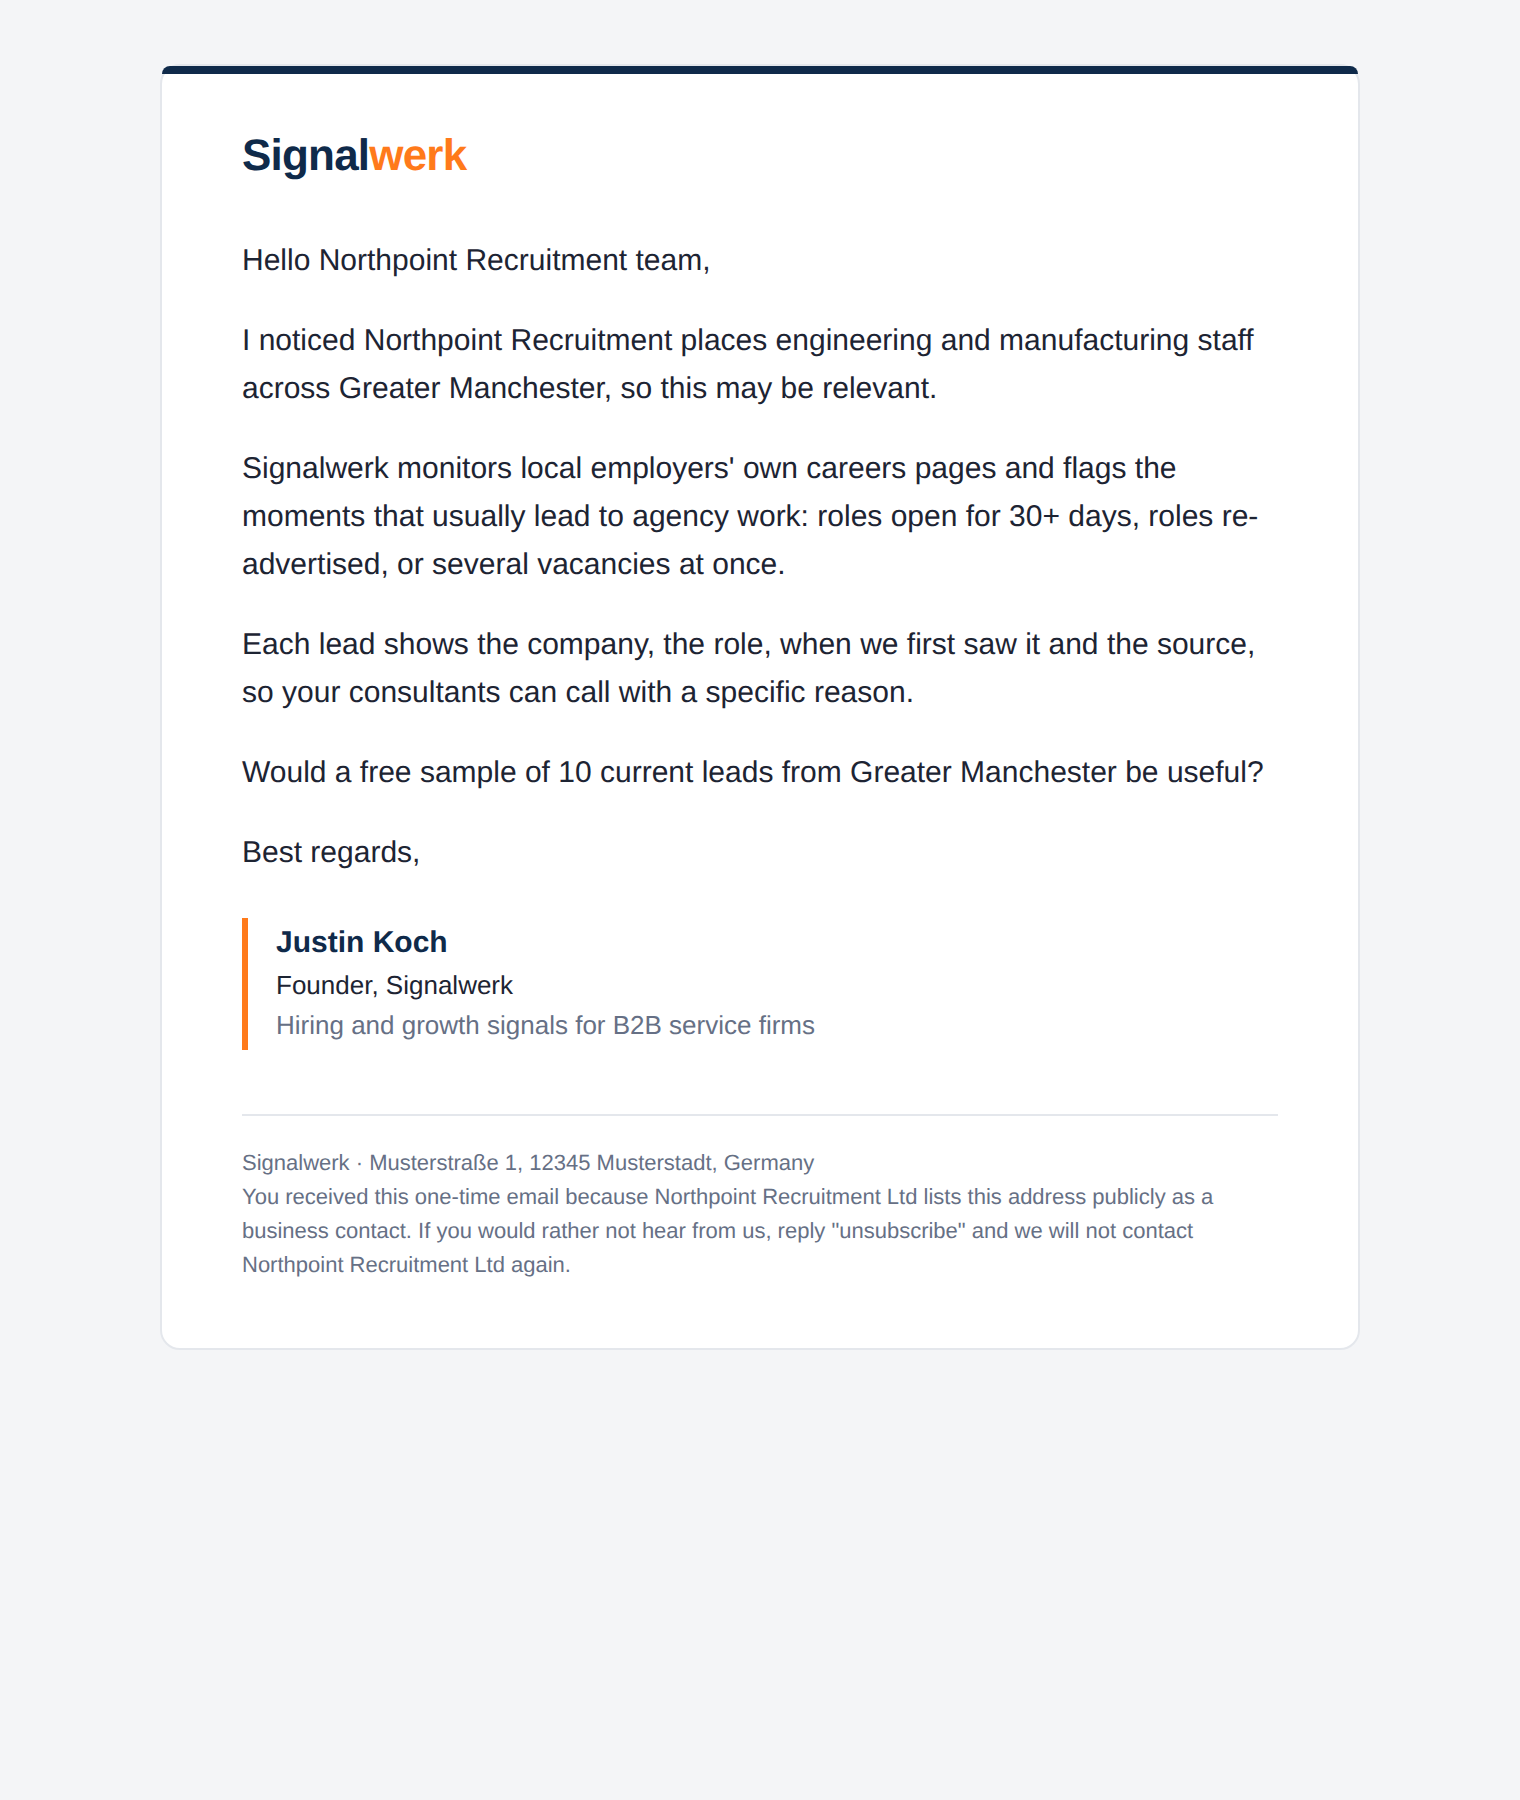
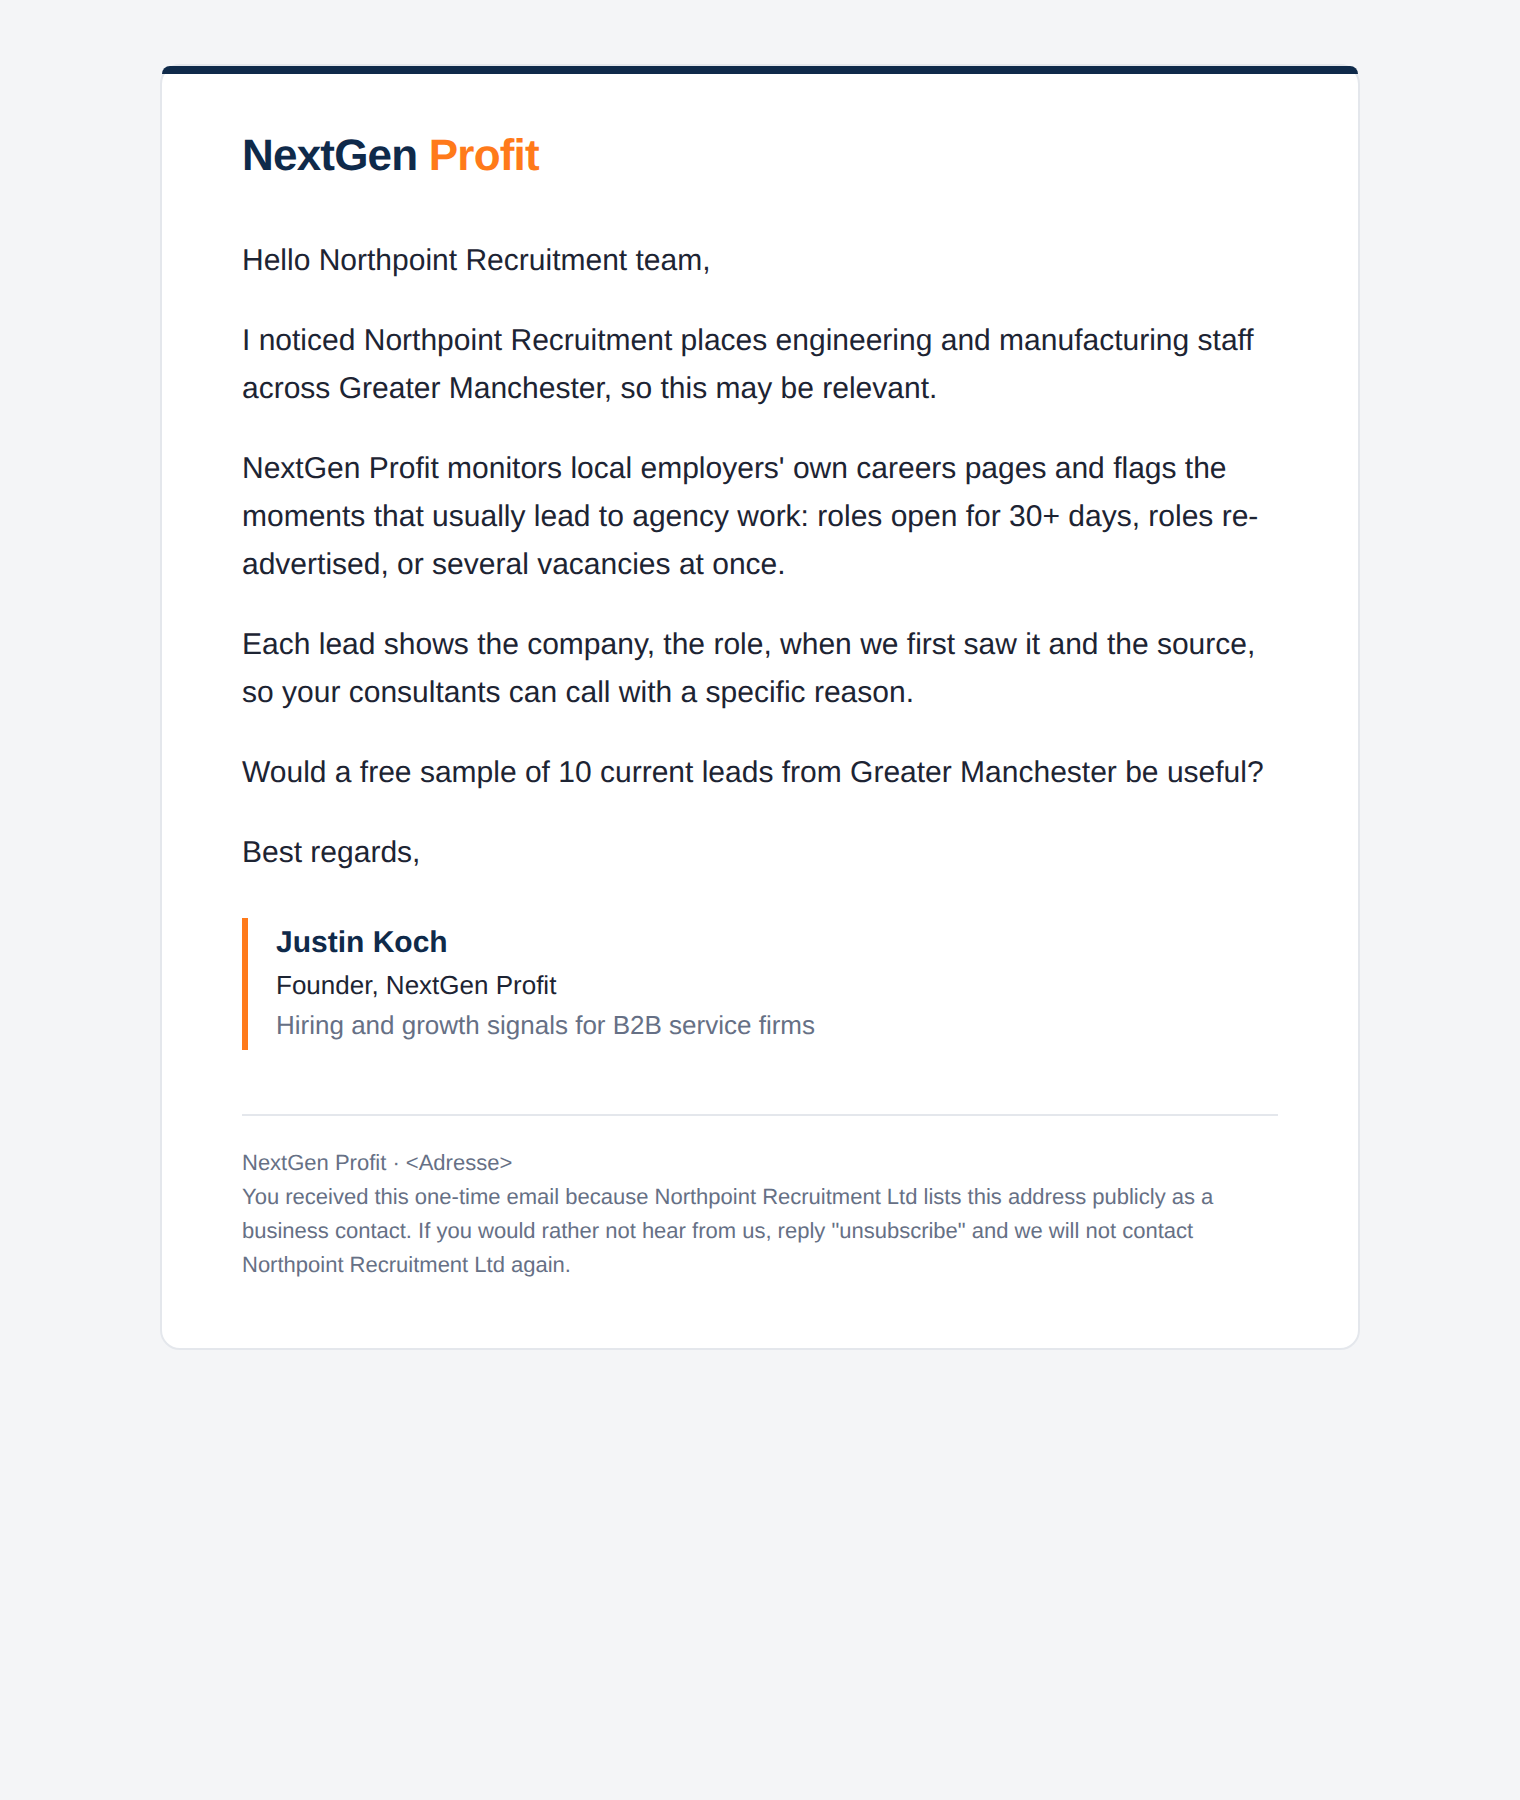
Marke in Mails: NextGen Profit statt Signalwerk (über SENDER_COMPANY einstellbar)
Claude-Session: https://claude.ai/code/session_019ZNwjDtMpr12vyRvgpDRcA

diff --git a/scripts/drafts.py b/scripts/drafts.py
@@ -18,7 +18,7 @@ from pathlib import Path
 
 sys.path.insert(0, str(Path(__file__).resolve().parent))
 
-from lib.rules import lint_draft  # noqa: E402
+from lib.rules import brand, lint_draft  # noqa: E402
 
 GENERIC_SPEC = {"recruitment", "general recruitment", "financial advice", "independent financial advice",
                 "web design", "small business websites", "unverified", "", "it support", "commercial insurance",
@@ -41,8 +41,8 @@ def _clean_name(name: str) -> str:
 
 def signature(lang: str) -> str:
     """Signatur aus Umgebungsvariablen (GitHub-Secrets/Variablen). Nur Angaben, die es wirklich gibt."""
-    name = os.environ.get("SENDER_NAME") or "Signalwerk"
-    company = os.environ.get("SENDER_COMPANY") or "Signalwerk"
+    name = os.environ.get("SENDER_NAME") or brand()
+    company = brand()
     title = os.environ.get("SENDER_TITLE") or ("Fondateur" if lang == "fr" else "Founder")
     tagline = ("Signaux de recrutement et de croissance pour les prestataires B2B" if lang == "fr"
                else "Hiring and growth signals for B2B service firms")
@@ -76,7 +76,7 @@ def build(p: dict, sender: str | None = None, example: dict | None = None) -> tu
         subject = f"Hiring signals from {area} employers"
         first = (f"I noticed {firm} places {spec} staff across {area}, so this may be relevant."
                  if has_spec else f"I noticed {firm} recruits for employers across {area}, so this may be relevant.")
-        core = ("Signalwerk monitors local employers' own careers pages and flags the moments that usually lead "
+        core = (f"{brand()} monitors local employers' own careers pages and flags the moments that usually lead "
                 "to agency work: roles open for 30+ days, roles re-advertised, or several vacancies at once.")
         detail = ("Each lead shows the company, the role, when we first saw it and the source, "
                   "so your consultants can call with a specific reason.")
@@ -85,7 +85,7 @@ def build(p: dict, sender: str | None = None, example: dict | None = None) -> tu
         subject = f"Newly registered businesses in {area}"
         first = (f"I noticed {firm} builds {spec} for clients around {area}, so this may be relevant."
                  if has_spec else f"I noticed {firm} builds websites for businesses around {area}, so this may be relevant.")
-        core = ("Signalwerk tracks official state filings and flags companies registered in the last few weeks. "
+        core = (f"{brand()} tracks official state filings and flags companies registered in the last few weeks. "
                 "New owners are usually choosing their website, branding and online presence right now.")
         detail = ex or "Each lead shows the company, the registration date, the county and the official source."
         ask = f"Would a free sample of 10 recent registrations from {area} be useful?"
@@ -93,7 +93,7 @@ def build(p: dict, sender: str | None = None, example: dict | None = None) -> tu
         subject = f"New and growing companies in {area}"
         first = (f"I noticed {firm} focuses on {spec} for clients around {area}, so this may be relevant."
                  if has_spec else f"I noticed {firm} advises business owners around {area}, so this may be relevant.")
-        core = ("Signalwerk flags local companies at the moments when owners look for advice: a new registration, "
+        core = (f"{brand()} flags local companies at the moments when owners look for advice: a new registration, "
                 "a hiring push or a new site. That is when pensions, protection and benefits come up.")
         detail = ex or "Each lead shows the company, the event, the date and the official source."
         ask = f"Would a free sample of 10 current leads from {area} be useful?"
@@ -101,7 +101,7 @@ def build(p: dict, sender: str | None = None, example: dict | None = None) -> tu
         subject = f"Growing businesses around {area}"
         first = (f"I noticed {firm} provides {spec} to businesses around {area}, so this may be relevant."
                  if has_spec else f"I noticed {firm} looks after IT for businesses around {area}, so this may be relevant.")
-        core = ("Signalwerk flags local companies at the moments when IT needs change: a new office, a hiring push "
+        core = (f"{brand()} flags local companies at the moments when IT needs change: a new office, a hiring push "
                 "or an open IT support role that has not been filled. Those are good reasons for an MSP to call.")
         detail = ex or "Each lead shows the company, what happened, when we saw it and the source."
         ask = f"Would a free sample of 10 current leads from {area} be useful?"
@@ -109,7 +109,7 @@ def build(p: dict, sender: str | None = None, example: dict | None = None) -> tu
         subject = f"New and expanding businesses in {area}"
         first = (f"I noticed {firm} arranges {spec} for businesses around {area}, so this may be relevant."
                  if has_spec else f"I noticed {firm} arranges business insurance around {area}, so this may be relevant.")
-        core = ("Signalwerk tracks official company registrations and local expansion signals. A newly registered "
+        core = (f"{brand()} tracks official company registrations and local expansion signals. A newly registered "
                 "company usually needs liability, property and employer cover in its first weeks.")
         detail = ex or "Each lead shows the company, the registration date, the location and the official source."
         ask = f"Would a free sample of 10 recent leads from {area} be useful?"
@@ -117,7 +117,7 @@ def build(p: dict, sender: str | None = None, example: dict | None = None) -> tu
         subject = f"Newly registered companies in {area}"
         first = (f"I noticed {firm} offers {spec} to businesses around {area}, so this may be relevant."
                  if has_spec else f"I noticed {firm} works with small businesses around {area}, so this may be relevant.")
-        core = ("Signalwerk tracks official company registrations and employers hiring for finance roles. New "
+        core = (f"{brand()} tracks official company registrations and employers hiring for finance roles. New "
                 "directors are usually choosing an accountant and payroll provider in their first weeks.")
         detail = ex or "Each lead shows the company, the registration date, the location and the official source."
         ask = f"Would a free sample of 10 recent leads from {area} be useful?"
@@ -125,21 +125,21 @@ def build(p: dict, sender: str | None = None, example: dict | None = None) -> tu
         subject = f"Signaux de recrutement à {area}"
         first = (f"J'ai vu que {firm} recrute des profils {spec} dans la région de {area}." if has_spec
                  else f"J'ai vu que {firm} accompagne les entreprises de la région de {area} dans leurs recrutements.")
-        core = ("Signalwerk suit les pages carrières des employeurs locaux et repère les moments qui mènent souvent "
+        core = (f"{brand()} suit les pages carrières des employeurs locaux et repère les moments qui mènent souvent "
                 "à un mandat : postes ouverts depuis plus de 30 jours, annonces republiées ou plusieurs postes à la fois.")
         detail = "Chaque piste indique l'entreprise, le poste, la date et la source."
         ask = f"Un échantillon gratuit de 10 pistes actuelles à {area} vous serait-il utile ?"
     elif seg == "S2":
         subject = f"Sociétés nouvellement créées à {area}"
         first = f"J'ai vu que {firm} conçoit des sites web pour les entreprises de la région de {area}."
-        core = ("Signalwerk suit les annonces officielles de création au BODACC. Une société qui vient d'être "
+        core = (f"{brand()} suit les annonces officielles de création au BODACC. Une société qui vient d'être "
                 "immatriculée choisit en ce moment son site, son identité visuelle et sa présence en ligne.")
         detail = ex or "Chaque piste indique la société, la date de l'annonce, la ville et la source officielle."
         ask = f"Un échantillon gratuit de 10 créations récentes à {area} vous serait-il utile ?"
     else:  # S9 FR
         subject = f"Nouveaux dirigeants à {area}"
         first = f"J'ai vu que {firm} accompagne les chefs d'entreprise de la région de {area}."
-        core = ("Signalwerk repère les entreprises locales au moment où leurs dirigeants cherchent conseil : création "
+        core = (f"{brand()} repère les entreprises locales au moment où leurs dirigeants cherchent conseil : création "
                 "récente, vague de recrutements ou nouveau site. C'est là que se posent les questions de protection "
                 "et d'épargne salariale.")
         detail = ex or "Chaque piste indique la société, l'événement, la date et la source officielle."

diff --git a/scripts/responder.py b/scripts/responder.py
@@ -36,7 +36,7 @@ import requests
 
 sys.path.insert(0, str(Path(__file__).resolve().parent))
 
-from lib.rules import normalize_domain  # noqa: E402
+from lib.rules import brand, normalize_domain  # noqa: E402
 
 ROOT = Path(__file__).resolve().parents[1]
 INTENTS = ["buy", "sample", "question", "not_interested", "unsubscribe", "out_of_office", "other"]
@@ -178,7 +178,7 @@ def send_reply(to: str, subject: str, text: str, in_reply_to: str | None, lang: 
                attachments: list[tuple[str, bytes]] | None = None) -> str | None:
     from lib.html_email import render
     from lib.rules import render_footer
-    company = os.environ.get("SENDER_COMPANY") or "Signalwerk"
+    company = brand()
     footer = render_footer(lang, sender_name=company, postal_address=os.environ.get("SENDER_POSTAL_ADDRESS", ""),
                            company=normalize_domain(to.split("@")[-1]), unsubscribe_url=None)
     full = text.rstrip() + "\n\n" + footer
@@ -293,7 +293,7 @@ def main(argv=None) -> int:
                     db.insert("email_events", {"message_id": m["id"], "type": "sample_requested",
                                                "note": "Probe automatisch gesendet"})
             if action == "sample_owner" or not body:
-                notify_owner(f"[Signalwerk] Bitte ansehen: {p['company_name']}",
+                notify_owner(f"[Leads] Bitte ansehen: {p['company_name']}",
                              f"{p['company_name']} ({p['segment_id']}/{p['country']}) hat geantwortet.\n\n"
                              f"Einordnung: {c['summary_de']}\nProbe gesendet: {'ja' if body else 'nein (keine Datei)'}\n\n"
                              f"Antwort von {sender}:\n\n{text[:3000]}")
@@ -308,7 +308,7 @@ def main(argv=None) -> int:
                         f"sample of 10 leads for your area?\n\nBest regards,\n{signature(lang)}")
             send_reply(sender, subject, body, mid, lang)
         elif action == "owner":
-            notify_owner(f"[Signalwerk] Interessent: {p['company_name']} – {c['summary_de'][:80]}",
+            notify_owner(f"[Leads] Interessent: {p['company_name']} – {c['summary_de'][:80]}",
                          f"{p['company_name']} ({p['segment_id']}/{p['country']}, {p.get('region') or ''}) "
                          f"hat geantwortet.\n\nEinordnung: {c['intent']} – {c['summary_de']}\n\n"
                          f"Antwort von {sender}:\n\n{text[:3000]}\n\n"

diff --git a/scripts/outreach.py b/scripts/outreach.py
@@ -29,7 +29,7 @@ sys.path.insert(0, str(Path(__file__).resolve().parent))
 
 sys.path.insert(0, str(Path(__file__).resolve().parent))
 from lib.rules import (  # noqa: E402
-    check_prospect, country_rules, lint_draft, load_countries, render_footer,
+    brand, check_prospect, country_rules, lint_draft, load_countries, render_footer,
 )
 
 RESEND_URL = "https://api.resend.com/emails"
@@ -247,7 +247,7 @@ def cmd_send(args) -> int:
 
         unsub = unsubscribe_target(m["unsubscribe_token"])
         footer = render_footer(m.get("language") or "en",
-                               sender_name=os.environ.get("SENDER_COMPANY") or "Signalwerk",
+                               sender_name=brand(),
                                postal_address=os.environ.get("SENDER_POSTAL_ADDRESS", "<Postanschrift>"),
                                company=p["company_name"], unsubscribe_url=unsub)
         text = m["body"].rstrip() + "\n\n" + footer
@@ -298,7 +298,7 @@ def cmd_test(args) -> int:
               "source": "NY Department of State"}
     subject, body, lang = build(p, example=ex)
     lint = lint_draft(subject, body, lang)
-    footer = render_footer(lang, sender_name=os.environ.get("SENDER_COMPANY") or "Signalwerk",
+    footer = render_footer(lang, sender_name=brand(),
                            postal_address=os.environ.get("SENDER_POSTAL_ADDRESS", ""), company=name,
                            unsubscribe_url=unsubscribe_target("test"))
     text = body.rstrip() + "\n\n" + footer

diff --git a/scripts/lib/html_email.py b/scripts/lib/html_email.py
@@ -29,15 +29,18 @@ def render(body_text: str, footer_text: str, lang: str = "en") -> str:
     closing = paras.pop() if paras else ""
     closing_lines = closing.splitlines()
     bye = closing_lines[0] if closing_lines else ""
-    name = os.environ.get("SENDER_NAME") or "Signalwerk"
-    company = os.environ.get("SENDER_COMPANY") or "Signalwerk"
+    from lib.rules import brand
+    company = brand()
+    name = os.environ.get("SENDER_NAME") or company
     title = os.environ.get("SENDER_TITLE") or ("Fondateur" if lang == "fr" else "Founder")
     tagline = ("Signaux de recrutement et de croissance pour les prestataires B2B" if lang == "fr"
                else "Hiring and growth signals for B2B service firms")
     extras = [x for x in (os.environ.get("SENDER_WEBSITE"), os.environ.get("SENDER_PHONE")) if x]
 
+    parts = company.split(" ", 1)
+    head, tail = (parts[0], " " + parts[1]) if len(parts) == 2 else (company, "")
     wordmark = (f'<span style="font-family:{FONT};font-size:22px;font-weight:800;letter-spacing:-0.4px;color:{NAVY};">'
-                f'Signal<span style="color:{ORANGE};">werk</span></span>')
+                f'{html.escape(head)}<span style="color:{ORANGE};">{html.escape(tail)}</span></span>')
     extras_html = "".join(
         f'<div style="font-family:{FONT};font-size:13px;line-height:20px;color:{MUTED};">{html.escape(x)}</div>'
         for x in extras)

diff --git a/scripts/lint_templates.py b/scripts/lint_templates.py
@@ -8,7 +8,7 @@ sys.path.insert(0, str(Path(__file__).resolve().parent))
 from lib.rules import lint_draft  # noqa: E402
 
 EXAMPLE = {"{agency}": "Northpoint Recruitment", "{specialism}": "engineering", "{region}": "Greater Manchester",
-           "{town}": "Bolton", "{firm}": "Northbridge Financial Planning", "{specialism}": "workplace pensions", "{sender}": "Signalwerk", "{city}": "Austin", "{niche}": "restaurant", "{state}": "Texas"}
+           "{town}": "Bolton", "{firm}": "Northbridge Financial Planning", "{specialism}": "workplace pensions", "{sender}": "NextGen Profit", "{city}": "Austin", "{niche}": "restaurant", "{state}": "Texas"}
 
 EXAMPLE_FR = {**EXAMPLE, "{region}": "Lyon", "{town}": "Villeurbanne", "{firm}": "Atelier Rhône Conseil",
               "{specialism}": "industrie", "{niche}": "commerces"}

diff --git a/scripts/lib/rules.py b/scripts/lib/rules.py
@@ -218,6 +218,12 @@ def lint_draft(subject: str, body: str, language: str = "en") -> CheckResult:
     return CheckResult(ok=not errors, errors=errors, warnings=warnings)
 
 
+def brand() -> str:
+    """Markenname in Mails (Secret SENDER_COMPANY), Standard NextGen Profit."""
+    import os
+    return os.environ.get("SENDER_COMPANY") or "NextGen Profit"
+
+
 FOOTER = {
     "en": (
         "—\n{sender_name} · {postal_address}\n"

diff --git a/scripts/lib/fetch.py b/scripts/lib/fetch.py
@@ -14,7 +14,7 @@ from urllib.parse import urlparse
 
 import requests
 
-USER_AGENT = "SignalwerkBot/0.1 (+company-signal research; respects robots.txt; max 1 request/page/day)"
+USER_AGENT = "NextGenProfitBot/0.1 (+company-signal research; respects robots.txt; max 1 request/page/day)"
 
 # CLAUDE.md Abschnitt 2: kein Scraping dieser Plattformen (auch nicht über Subdomains).
 BLOCKED_HOSTS = (
